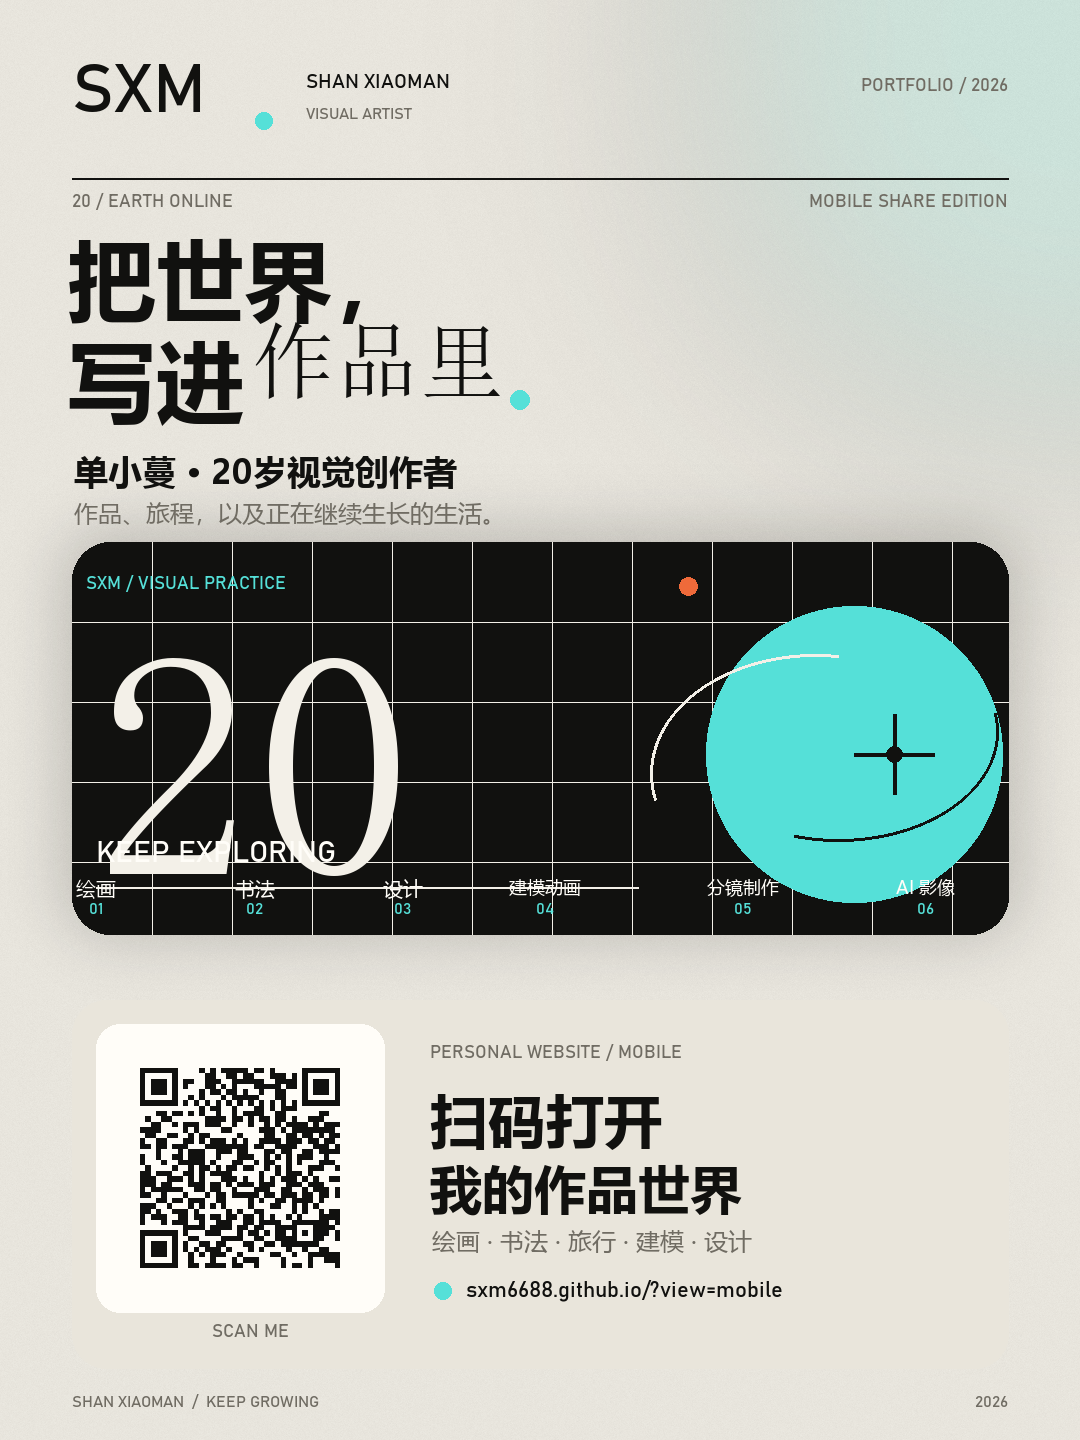
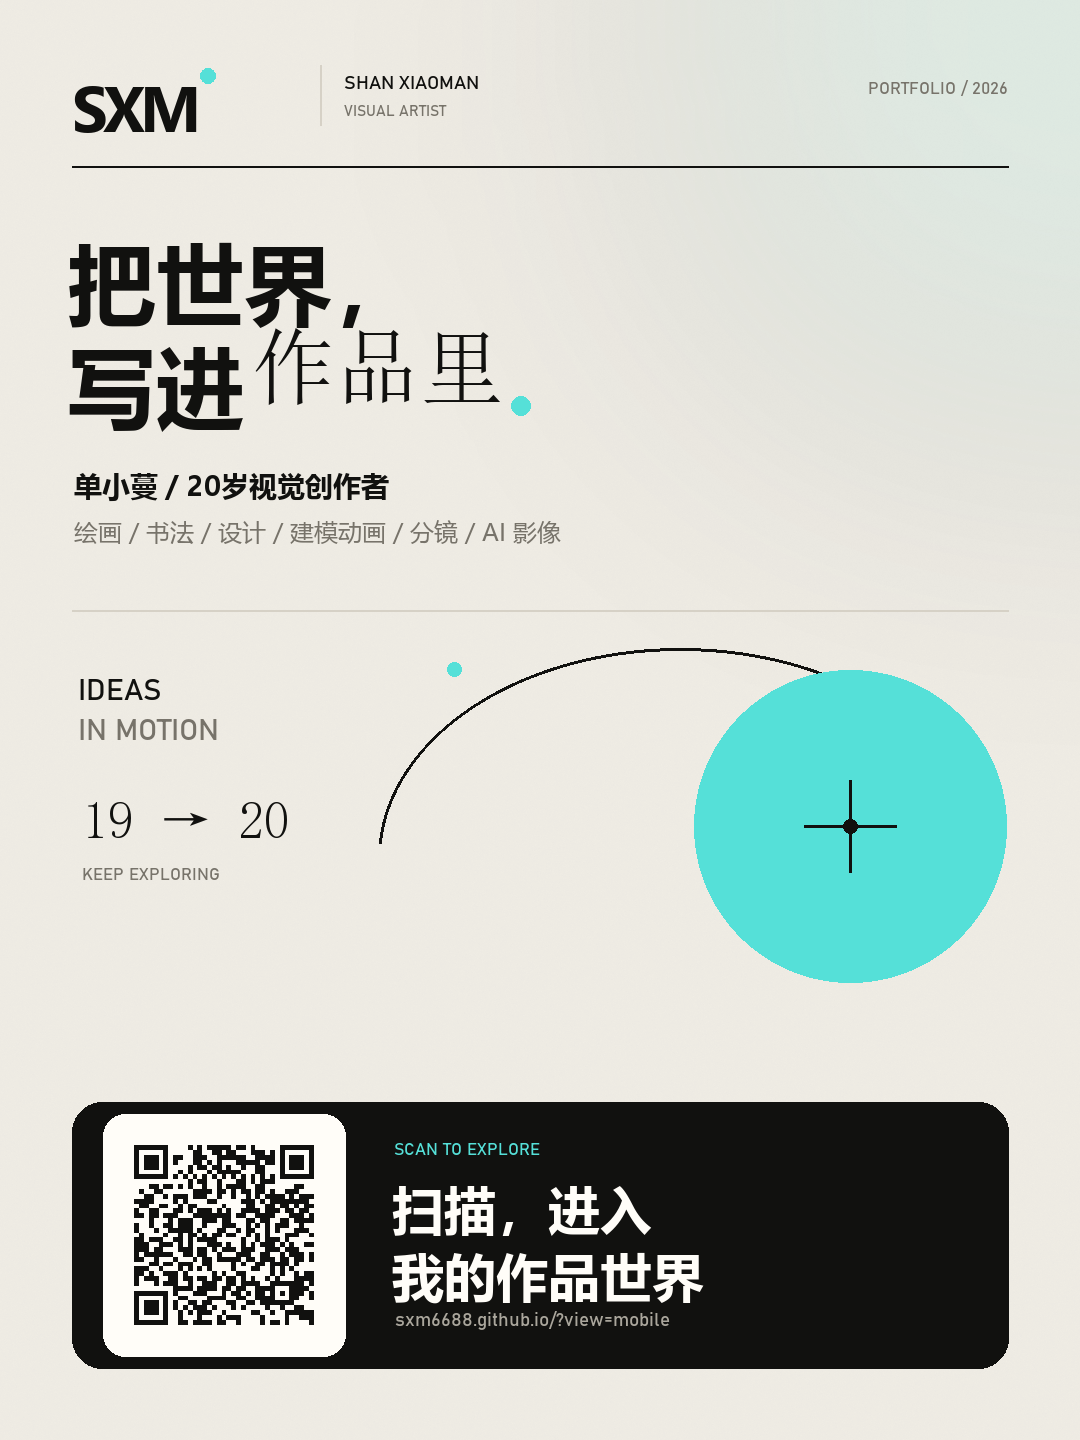
重新设计手机分享海报

diff --git a/generate_share_poster.py b/generate_share_poster.py
@@ -13,50 +13,44 @@ OUTPUT_DIR.mkdir(parents=True, exist_ok=True)
 
 W, H = 1080, 1440
 CREAM = "#f3f0e8"
-PAPER = "#fbf9f3"
-SOFT = "#e9e5db"
 INK = "#11110f"
-MUTED = "#706c63"
+MUTED = "#77736a"
+LINE = "#d6d1c6"
 CYAN = "#55e0d8"
-CORAL = "#ef6a3a"
 WHITE = "#fffdf8"
 
 FONT_CN = "C:/Windows/Fonts/msyh.ttc"
 FONT_CN_BOLD = "C:/Windows/Fonts/msyhbd.ttc"
 FONT_SERIF = "C:/Windows/Fonts/simsun.ttc"
 FONT_MONO = "C:/Windows/Fonts/bahnschrift.ttf"
+FONT_LOGO = "C:/Windows/Fonts/segoeuib.ttf"
 
 
 def font(path: str, size: int, *, index: int = 0) -> ImageFont.FreeTypeFont:
     return ImageFont.truetype(path, size=size, index=index)
 
 
-sans_18 = font(FONT_CN, 18)
 sans_20 = font(FONT_CN, 20)
 sans_22 = font(FONT_CN, 22)
 sans_24 = font(FONT_CN, 24)
-sans_28 = font(FONT_CN, 28)
-sans_34 = font(FONT_CN, 34)
-sans_42 = font(FONT_CN, 42)
-bold_20 = font(FONT_CN_BOLD, 20)
+sans_26 = font(FONT_CN, 26)
+sans_32 = font(FONT_CN, 32)
 bold_22 = font(FONT_CN_BOLD, 22)
 bold_24 = font(FONT_CN_BOLD, 24)
-bold_26 = font(FONT_CN_BOLD, 26)
+bold_28 = font(FONT_CN_BOLD, 28)
 bold_34 = font(FONT_CN_BOLD, 34)
 bold_52 = font(FONT_CN_BOLD, 52)
-bold_58 = font(FONT_CN_BOLD, 58)
-bold_72 = font(FONT_CN_BOLD, 72)
+bold_56 = font(FONT_CN_BOLD, 56)
 bold_88 = font(FONT_CN_BOLD, 88)
 serif_84 = font(FONT_SERIF, 84)
-serif_320 = font(FONT_SERIF, 320)
-brand_68 = font(FONT_MONO, 68)
-mono_16 = font(FONT_MONO, 16)
-mono_18 = font(FONT_MONO, 18)
-mono_20 = font(FONT_MONO, 20)
-mono_22 = font(FONT_MONO, 22)
+serif_52 = font(FONT_SERIF, 52)
+logo_64 = font(FONT_LOGO, 64)
+mono_15 = font(FONT_MONO, 15)
+mono_17 = font(FONT_MONO, 17)
+mono_19 = font(FONT_MONO, 19)
+mono_21 = font(FONT_MONO, 21)
+mono_26 = font(FONT_MONO, 26)
 mono_30 = font(FONT_MONO, 30)
-mono_44 = font(FONT_MONO, 44)
-mono_54 = font(FONT_MONO, 54)
 
 
 def rounded(draw: ImageDraw.ImageDraw, box, radius, fill):
@@ -71,34 +65,19 @@ def text(
     fill=INK,
     fnt=sans_24,
     anchor=None,
-    stroke_width=0,
-    stroke_fill=None,
 ):
-    draw.text(
-        xy,
-        value,
-        fill=fill,
-        font=fnt,
-        anchor=anchor,
-        stroke_width=stroke_width,
-        stroke_fill=stroke_fill,
-    )
+    draw.text(xy, value, fill=fill, font=fnt, anchor=anchor)
 
 
-def tracked_text(
-    draw: ImageDraw.ImageDraw,
-    xy,
-    value: str,
-    *,
-    fill=INK,
-    fnt=sans_20,
-    tracking: int = 5,
-):
+def logo(draw: ImageDraw.ImageDraw, xy):
+    """Match the site logo: heavy SXM glyphs with tight tracking and cyan dot."""
     x, y = xy
-    for char in value:
-        draw.text((x, y), char, fill=fill, font=fnt)
-        x += draw.textlength(char, font=fnt) + tracking
-    return x
+    tracking = -5
+    for char in "SXM":
+        draw.text((x, y), char, fill=INK, font=logo_64)
+        x += draw.textlength(char, font=logo_64) + tracking
+    draw.ellipse((x + 4, y + 6, x + 19, y + 21), fill=CYAN)
+    return x + 22
 
 
 def make_qr() -> Image.Image:
@@ -111,132 +90,76 @@ def make_qr() -> Image.Image:
     qr.add_data("https://sxm6688.github.io/?view=mobile")
     qr.make(fit=True)
     code = qr.make_image(fill_color=INK, back_color=WHITE).convert("RGBA")
-    return code.resize((244, 244), Image.Resampling.NEAREST)
+    return code.resize((218, 218), Image.Resampling.NEAREST)
 
 
 def make_background() -> Image.Image:
-    image = Image.new("RGB", (W, H), CREAM)
+    image = Image.new("RGBA", (W, H), CREAM)
 
     glow = Image.new("RGBA", (W, H), (0, 0, 0, 0))
     glow_draw = ImageDraw.Draw(glow)
-    glow_draw.ellipse((680, -260, 1380, 440), fill=(85, 224, 216, 46))
-    glow = glow.filter(ImageFilter.GaussianBlur(120))
-    image = Image.alpha_composite(image.convert("RGBA"), glow)
+    glow_draw.ellipse((650, -250, 1350, 450), fill=(85, 224, 216, 27))
+    glow = glow.filter(ImageFilter.GaussianBlur(150))
+    image = Image.alpha_composite(image, glow)
 
-    shadow = Image.new("RGBA", (W, H), (0, 0, 0, 0))
-    shadow_draw = ImageDraw.Draw(shadow)
-    rounded(shadow_draw, (64, 530, 1016, 934), 42, (17, 17, 15, 50))
-    shadow = shadow.filter(ImageFilter.GaussianBlur(30))
-    image = Image.alpha_composite(image, shadow)
-
-    grain = Image.effect_noise((W, H), 16).convert("L")
+    grain = Image.effect_noise((W, H), 12).convert("L")
     grain_rgba = Image.new("RGBA", (W, H), (0, 0, 0, 0))
-    grain_rgba.putalpha(grain.point(lambda value: int(value * 0.10)))
-    image = Image.alpha_composite(image, grain_rgba)
-    return image
+    grain_rgba.putalpha(grain.point(lambda value: int(value * 0.045)))
+    return Image.alpha_composite(image, grain_rgba)
 
 
 poster = make_background()
 draw = ImageDraw.Draw(poster, "RGBA")
 
-# Header / logo
-text(draw, (72, 58), "SXM", fill=INK, fnt=brand_68)
-draw.ellipse((255, 112, 272, 129), fill=CYAN)
-text(draw, (306, 72), "SHAN XIAOMAN", fill=INK, fnt=mono_20)
-text(draw, (306, 106), "VISUAL ARTIST", fill=MUTED, fnt=mono_16)
-text(draw, (1008, 76), "PORTFOLIO / 2026", fill=MUTED, fnt=mono_18, anchor="ra")
+# Header. The logo keeps the same heavy weight and tight lettering as the website.
+logo(draw, (72, 62))
+draw.line((320, 65, 320, 125), fill=LINE, width=2)
+text(draw, (344, 73), "SHAN XIAOMAN", fill=INK, fnt=mono_19)
+text(draw, (344, 104), "VISUAL ARTIST", fill=MUTED, fnt=mono_15)
+text(draw, (1008, 80), "PORTFOLIO / 2026", fill=MUTED, fnt=mono_17, anchor="ra")
 
-draw.line((72, 178, 1008, 178), fill=(17, 17, 15, 50), width=2)
-text(draw, (72, 192), "20 / EARTH ONLINE", fill=MUTED, fnt=mono_18)
-text(draw, (1008, 192), "MOBILE SHARE EDITION", fill=MUTED, fnt=mono_18, anchor="ra")
+draw.line((72, 166, 1008, 166), fill=INK, width=2)
 
-# Main editorial headline
-text(draw, (68, 218), "把世界，", fill=INK, fnt=bold_88)
+# Main statement. Only one supporting line, with generous breathing room.
+text(draw, (68, 222), "把世界，", fill=INK, fnt=bold_88)
+text(draw, (68, 326), "写进", fill=INK, fnt=bold_88)
+title_x = 68 + draw.textlength("写进", font=bold_88) + 8
+text(draw, (title_x, 324), "作品里", fill=INK, fnt=serif_84)
+period_x = title_x + draw.textlength("作品里", font=serif_84) + 3
+draw.ellipse((period_x + 4, 396, period_x + 23, 415), fill=CYAN)
 
-headline_y = 320
-text(draw, (68, headline_y), "写进", fill=INK, fnt=bold_88)
-accent_x = 68 + draw.textlength("写进", font=bold_88) + 8
-text(draw, (accent_x, headline_y - 2), "作品里", fill=INK, fnt=serif_84)
-period_x = accent_x + draw.textlength("作品里", font=serif_84) + 2
-draw.ellipse((period_x + 4, headline_y + 70, period_x + 23, headline_y + 89), fill=CYAN)
-
-text(draw, (74, 448), "单小蔓 · 20岁视觉创作者", fill=INK, fnt=bold_34)
+text(draw, (74, 466), "单小蔓 / 20岁视觉创作者", fill=INK, fnt=bold_28)
 text(
     draw,
-    (74, 496),
-    "作品、旅程，以及正在继续生长的生活。",
+    (74, 515),
+    "绘画 / 书法 / 设计 / 建模动画 / 分镜 / AI 影像",
     fill=MUTED,
     fnt=sans_24,
 )
 
-# Main visual panel
-rounded(draw, (72, 542, 1008, 934), 38, INK)
+# One restrained graphic gesture: a clean cyan field and a fine orbit.
+draw.line((72, 610, 1008, 610), fill=LINE, width=2)
+draw.arc((378, 648, 982, 1068), start=184, end=338, fill=INK, width=3)
+draw.ellipse((694, 670, 1006, 982), fill=CYAN)
+draw.line((850, 780, 850, 872), fill=INK, width=3)
+draw.line((804, 826, 896, 826), fill=INK, width=3)
+draw.ellipse((843, 819, 857, 833), fill=INK)
+draw.ellipse((447, 662, 461, 676), fill=CYAN)
 
-# Fine grid and axes
-for x in (152, 232, 312, 392, 472, 552, 632, 712, 792, 872, 952):
-    draw.line((x, 542, x, 934), fill=(243, 240, 232, 14), width=1)
-for y in (622, 702, 782, 862):
-    draw.line((72, y, 1008, y), fill=(243, 240, 232, 14), width=1)
+text(draw, (78, 676), "IDEAS", fill=INK, fnt=mono_30)
+text(draw, (78, 716), "IN MOTION", fill=MUTED, fnt=mono_30)
+text(draw, (82, 793), "19 → 20", fill=INK, fnt=serif_52)
+text(draw, (82, 866), "KEEP EXPLORING", fill=MUTED, fnt=mono_17)
 
-# Cyan orbital form, intentionally crisp instead of muddy.
-draw.ellipse((706, 606, 1002, 902), fill=CYAN)
-draw.arc((650, 654, 980, 893), start=167, end=278, fill=(243, 240, 232, 125), width=3)
-draw.arc((678, 622, 998, 841), start=350, end=466, fill=(17, 17, 15, 120), width=3)
-draw.line((854, 754, 934, 754), fill=INK, width=4)
-draw.line((894, 714, 894, 794), fill=INK, width=4)
-draw.ellipse((886, 746, 902, 762), fill=INK)
-draw.ellipse((679, 577, 697, 595), fill=CORAL)
+# Quiet contact area with a single clear call to action.
+rounded(draw, (72, 1102, 1008, 1368), 30, INK)
+rounded(draw, (103, 1114, 345, 1356), 22, WHITE)
+poster.alpha_composite(make_qr(), (115, 1126))
 
-# Typographic 20 and copy
-text(draw, (86, 574), "SXM / VISUAL PRACTICE", fill=CYAN, fnt=mono_18)
-text(draw, (94, 604), "20", fill=(243, 240, 232, 235), fnt=serif_320)
-text(draw, (96, 838), "KEEP EXPLORING", fill=WHITE, fnt=mono_30)
-draw.line((96, 887, 638, 887), fill=(243, 240, 232, 55), width=2)
-
-categories = [
-    ("01", "绘画"),
-    ("02", "书法"),
-    ("03", "设计"),
-    ("04", "建模动画"),
-    ("05", "分镜制作"),
-    ("06", "AI 影像"),
-]
-category_x = [96, 255, 403, 545, 743, 926]
-for (number, label), x in zip(categories, category_x):
-    text(draw, (x, 901), number, fill=CYAN, fnt=mono_16, anchor="ma")
-    if label == "建模动画":
-        text(draw, (x, 874), label, fill=WHITE, fnt=sans_18, anchor="ma")
-    elif label == "分镜制作":
-        text(draw, (x, 874), label, fill=WHITE, fnt=sans_18, anchor="ma")
-    elif label == "AI 影像":
-        text(draw, (x, 874), label, fill=WHITE, fnt=sans_18, anchor="ma")
-    else:
-        text(draw, (x, 874), label, fill=WHITE, fnt=sans_20, anchor="ma")
-
-# QR call-to-action panel
-rounded(draw, (72, 1000, 1008, 1368), 34, SOFT)
-rounded(draw, (96, 1024, 384, 1312), 24, WHITE)
-
-qr = make_qr()
-poster.alpha_composite(qr, (118, 1046))
-text(draw, (251, 1322), "SCAN ME", fill=MUTED, fnt=mono_18, anchor="ma")
-
-text(draw, (430, 1043), "PERSONAL WEBSITE / MOBILE", fill=MUTED, fnt=mono_18)
-text(draw, (430, 1080), "扫码打开", fill=INK, fnt=bold_58)
-text(draw, (430, 1152), "我的作品世界", fill=INK, fnt=bold_52)
-text(draw, (432, 1224), "绘画 · 书法 · 旅行 · 建模 · 设计", fill=MUTED, fnt=sans_24)
-draw.ellipse((434, 1282, 451, 1299), fill=CYAN)
-text(
-    draw,
-    (466, 1279),
-    "sxm6688.github.io/?view=mobile",
-    fill=INK,
-    fnt=mono_22,
-)
-
-# Footer details
-text(draw, (72, 1394), "SHAN XIAOMAN  /  KEEP GROWING", fill=MUTED, fnt=mono_16)
-text(draw, (1008, 1394), "2026", fill=MUTED, fnt=mono_16, anchor="ra")
+text(draw, (394, 1141), "SCAN TO EXPLORE", fill=CYAN, fnt=mono_17)
+text(draw, (392, 1173), "扫描，进入", fill=WHITE, fnt=bold_52)
+text(draw, (392, 1240), "我的作品世界", fill=WHITE, fnt=bold_52)
+text(draw, (395, 1310), "sxm6688.github.io/?view=mobile", fill="#aaa69c", fnt=mono_19)
 
 output = OUTPUT_DIR / "sxm-share-poster-mobile.png"
 poster.convert("RGB").save(output, quality=96, optimize=True)
